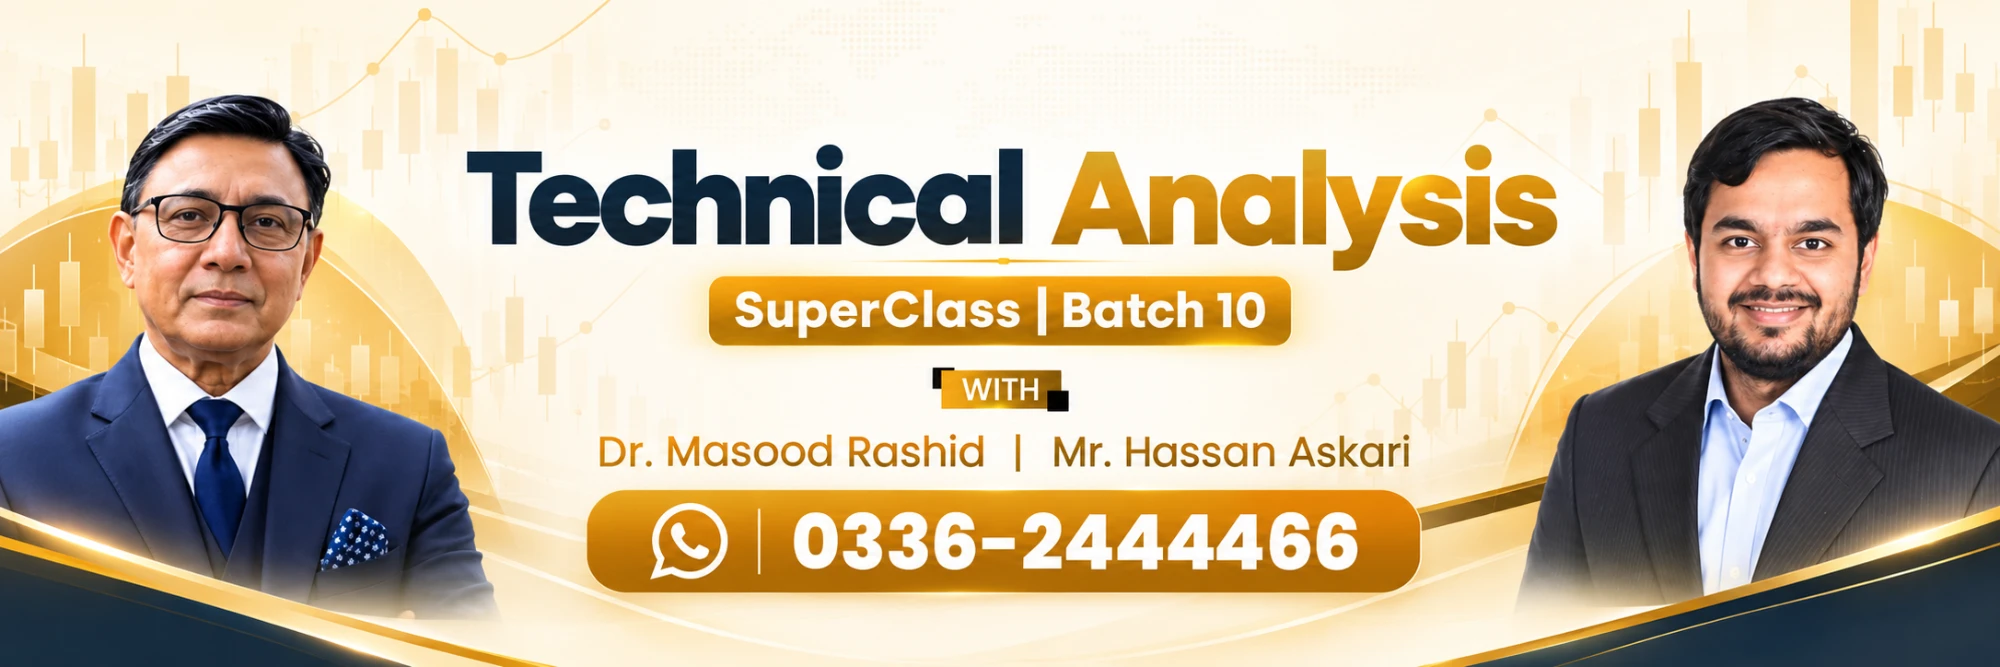
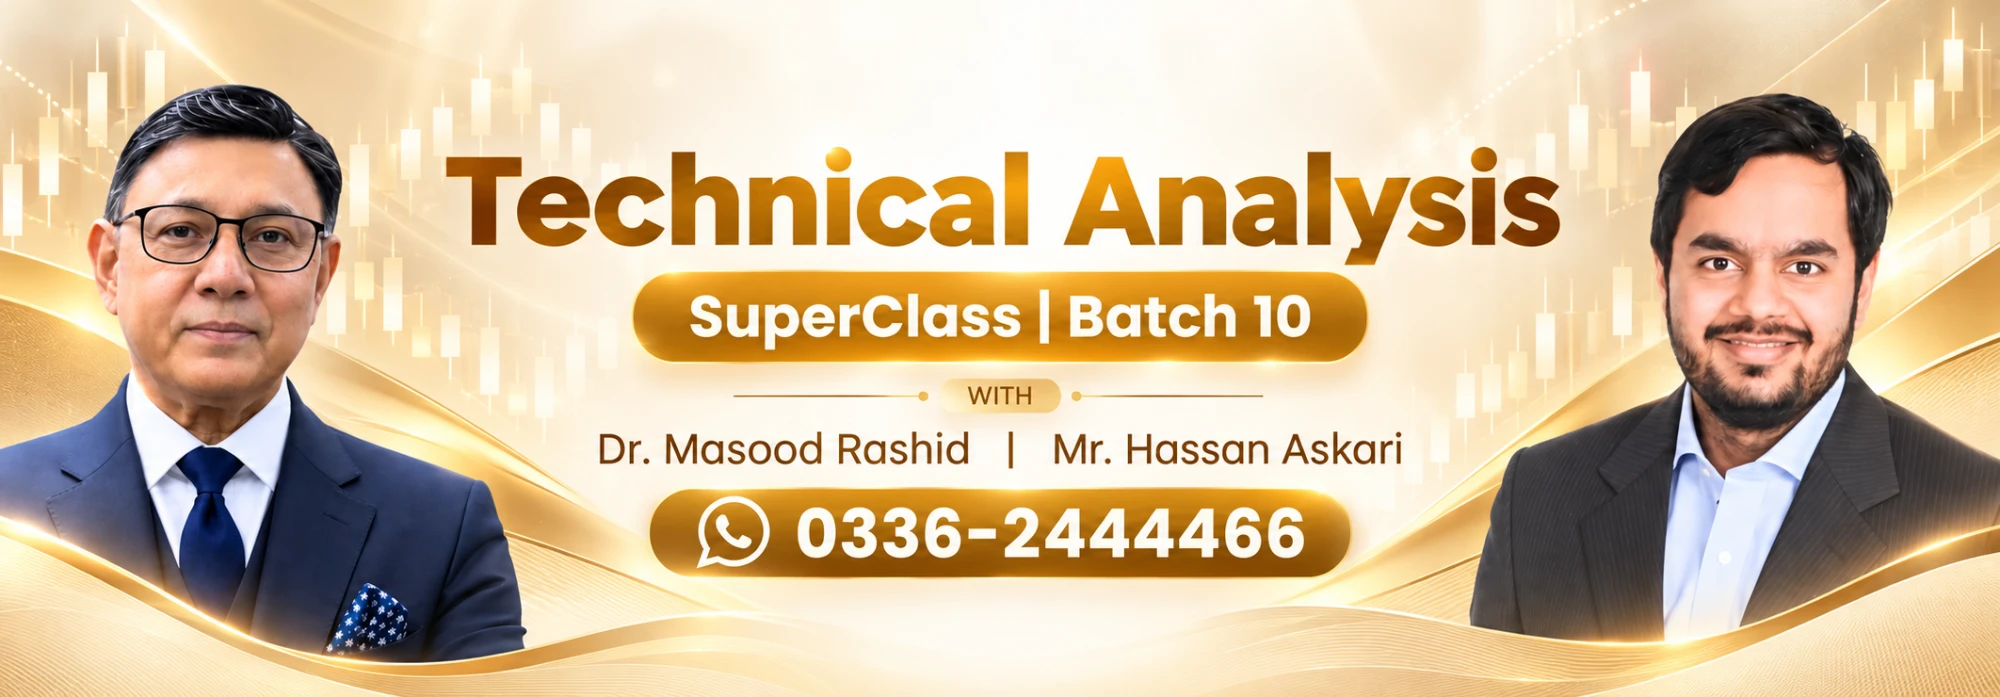
Swap in new Technical Analysis poster + add Enroll Now button
- Replaced the banner image with the refined poster design provided
  by the user
- Added an 'Enroll Now' button overlaid directly under the WhatsApp
  number on that slide (gold gradient, matching the site's other
  primary CTAs), opening WhatsApp with a pre-filled enrollment
  message — only shown while that slide is active

diff --git a/src/components/sections/Hero.tsx b/src/components/sections/Hero.tsx
@@ -15,6 +15,10 @@ const slides = [
   { src: "/images/course-banner-index.webp", alt: "Technical Analysis course index — topics covered" },
 ];
 
+// Same WhatsApp number printed on the banner itself.
+const ENROLL_WHATSAPP_URL =
+  "https://wa.me/923362444466?text=Hi%2C%20I%20would%20like%20to%20enroll%20in%20the%20Technical%20Analysis%20SuperClass.%20Please%20guide%20me%20on%20the%20next%20steps.";
+
 export default function Hero() {
   const [slide, setSlide] = useState(0);
 
@@ -124,6 +128,20 @@ export default function Hero() {
         >
           <ChevronRight className="size-5" />
         </button>
+
+        {/* Enroll Now — overlaid under the WhatsApp number printed on
+            the Technical Analysis slide only; opens WhatsApp directly. */}
+        <a
+          href={ENROLL_WHATSAPP_URL}
+          target="_blank"
+          rel="noopener noreferrer"
+          className={`absolute bottom-[4%] left-1/2 -translate-x-1/2 inline-flex items-center gap-1.5 whitespace-nowrap rounded-full bg-gradient-to-r from-gold to-goldDeep px-4 py-1.5 font-display text-[10px] font-bold text-white shadow-lg transition-opacity hover:opacity-90 sm:gap-2 sm:px-7 sm:py-2.5 sm:text-sm ${
+            slide === 0 ? "opacity-100" : "opacity-0 pointer-events-none"
+          }`}
+        >
+          Enroll Now
+          <ArrowRight className="size-3 sm:size-4" />
+        </a>
       </div>
 
       {/* MAIN CONTENT */}
